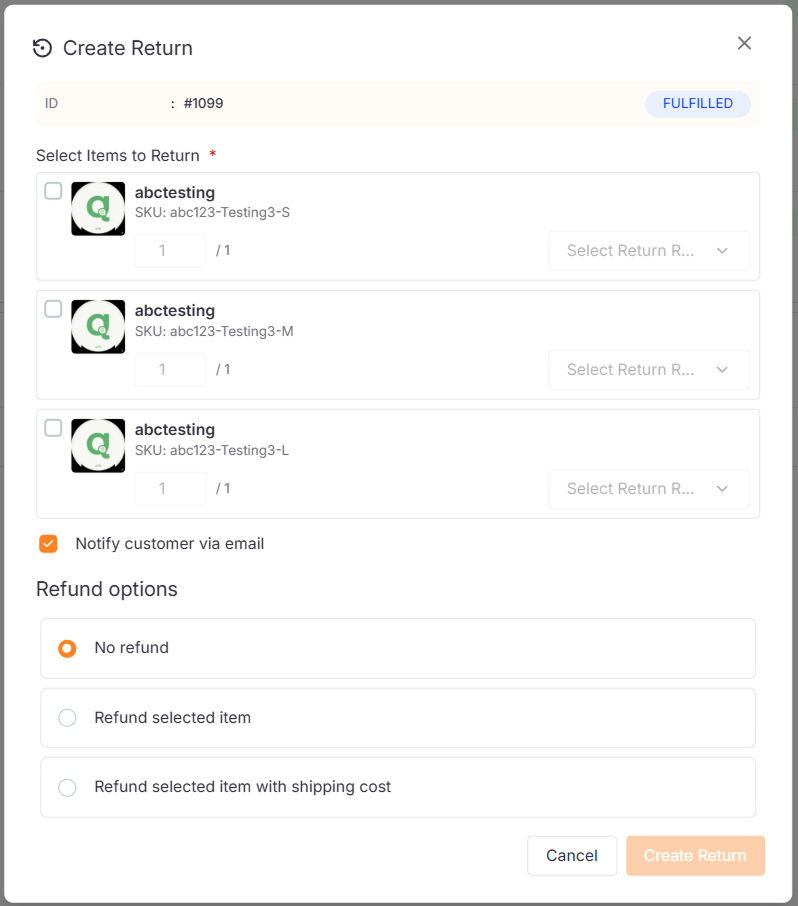
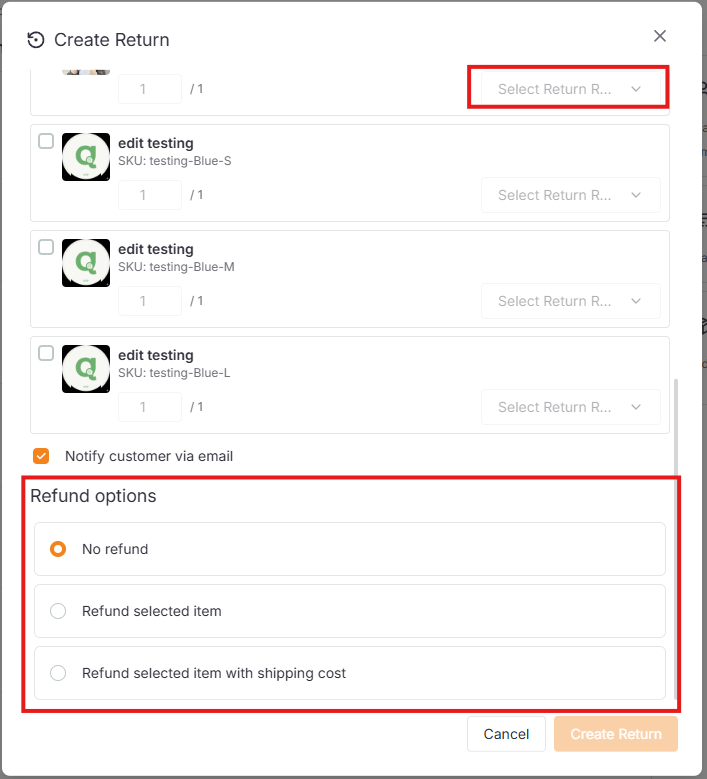
update: update the image and reorganize the shopify order part

diff --git a/docs/integration/xstore/orders/order-details.md b/docs/integration/xstore/orders/order-details.md
@@ -279,43 +279,80 @@ The buttons will be shown according to the **Return Type** and **Return Status**
 
 ![shopify-order-detail](../../../../static/img/xstore/order-details/shopify/order-detail.png)
 
-The order information section displays:
+The order information section includes:
 
-| Section              | Details        |
-| -------------------- | -------------- |
-| **Buyer Details**    | Name and Email |
-| **Payment Details**  | Payment Method |
-| **Shipping Details** | Address        |
-
-Allow seller to add Private or Customer Note
+| Section              | Details                    |
+| -------------------- | -------------------------- |
+| **Buyer Details**    | Customer name and email    |
+| **Payment Details**  | Payment method             |
+| **Shipping Details** | Delivery address           |
 
 ### Order Actions
 
 ![shopify-actions](../../../../static/img/xstore/order-details/shopify/order-actions.png)
 
-| Actions             | Details                                            |
-| ------------------- | -------------------------------------------------- |
-| **Mark As Paid**    | Mark order as paid order                           |
-| **Update Tracking** | Update carrier, tracking number, and url for buyer |
-| **Create Return**   | Create return for buyer                            |
-| **Restock Item**    | Restock returned item                              |
-| **Cancel Order**    | Cancel an order                                    |
+| Action              | Description                                        | Availability                                        |
+| ------------------- | -------------------------------------------------- | --------------------------------------------------- |
+| **Mark As Paid**    | Manually record an order as paid.                  | Only for orders awaiting payment.                   |
+| **Update Tracking** | Update carrier, tracking number, and tracking URL. | Available for all orders.                           |
+| **Create Return**   | Initiate a return and refund for the buyer.        | Only for fulfilled orders.                          |
+| **Cancel Order**    | Cancel the order.                                  | Only for orders that have not been fulfilled.       |
 
-**Update Tracking:**
+#### Update Tracking
 
 ![shopify-update-tracking](../../../../static/img/xstore/order-details/shopify/seller-update-tracking.png)
 
-**Create Return:**
+Update the carrier name, tracking number, and shipment URL to keep the buyer informed.
+
+#### Create Return
 
 ![shopify-create-return](../../../../static/img/xstore/order-details/shopify/seller-create-return.png)
 
-**Restock Item:**
+Sellers can create a return and refund for specific items in an order.
 
-![shopify-restock-item](../../../../static/img/xstore/order-details/shopify/seller-restock-item.png)
+*   **Reason:** A return reason is required and can be selected from the dropdown menu.
+*   **Quantity:** Adjust the number of items being returned.
 
-**Cancel Order:**
+![shopify-create-return-reason](../../../../static/img/xstore/order-details/shopify/seller-create-return-reason.png)
+
+**Refund Options:**
+You can choose from three refund methods:
+1.  **No Refund:** Mark the return without issuing a refund.
+2.  **Refund Selected Item:** Refund only the cost of the items.
+3.  **Refund Selected Item with Shipping Cost:** Refund both the items and the shipping fee.
+
+![shopify-create-return-refund-options](../../../../static/img/xstore/order-details/shopify/seller-create-return-refund.png)
+
+> Sellers can manually adjust the final refund amount. You can also choose whether to **restock** the items during this process.
+
+#### Cancel Order
 
 ![shopify-cancel-order](../../../../static/img/xstore/order-details/shopify/seller-cancel-order.png)
+
+This action is only available for orders that are **not yet fulfilled**.
+
+*   **Reason:** Selecting a cancellation reason is mandatory.
+*   **Refund:** For paid orders, you can choose whether to process a refund immediately.
+*   **Notification:** You can choose to notify the customer about the cancellation.
+
+#### Return/Refund (Buyer-Initiated)
+
+This section is available when a buyer requests a return or refund.
+
+![shopify-return-request](../../../../static/img/xstore/order-details/shopify/buyer-request-return-refund.png)
+
+Sellers can choose from the following actions:
+
+*   **Accept and Refund**: Approve the request and issue a full refund to the buyer.
+*   **Decline Return**: Reject the request. This does not close the case, and the request may be resubmitted.
+*   **Close Return**: Stop the return and refund process. No further action will be taken.
+*   **Restock items**: Return the product quantities to your inventory.
+
+![shopify-decline-return](../../../../static/img/xstore/order-details/shopify/buyer-request-return-refund-decline.png)
+
+> For buyer-initiated requests, the refund amount cannot be manually adjusted.
+
+
 
 ## WooCommerce
 
